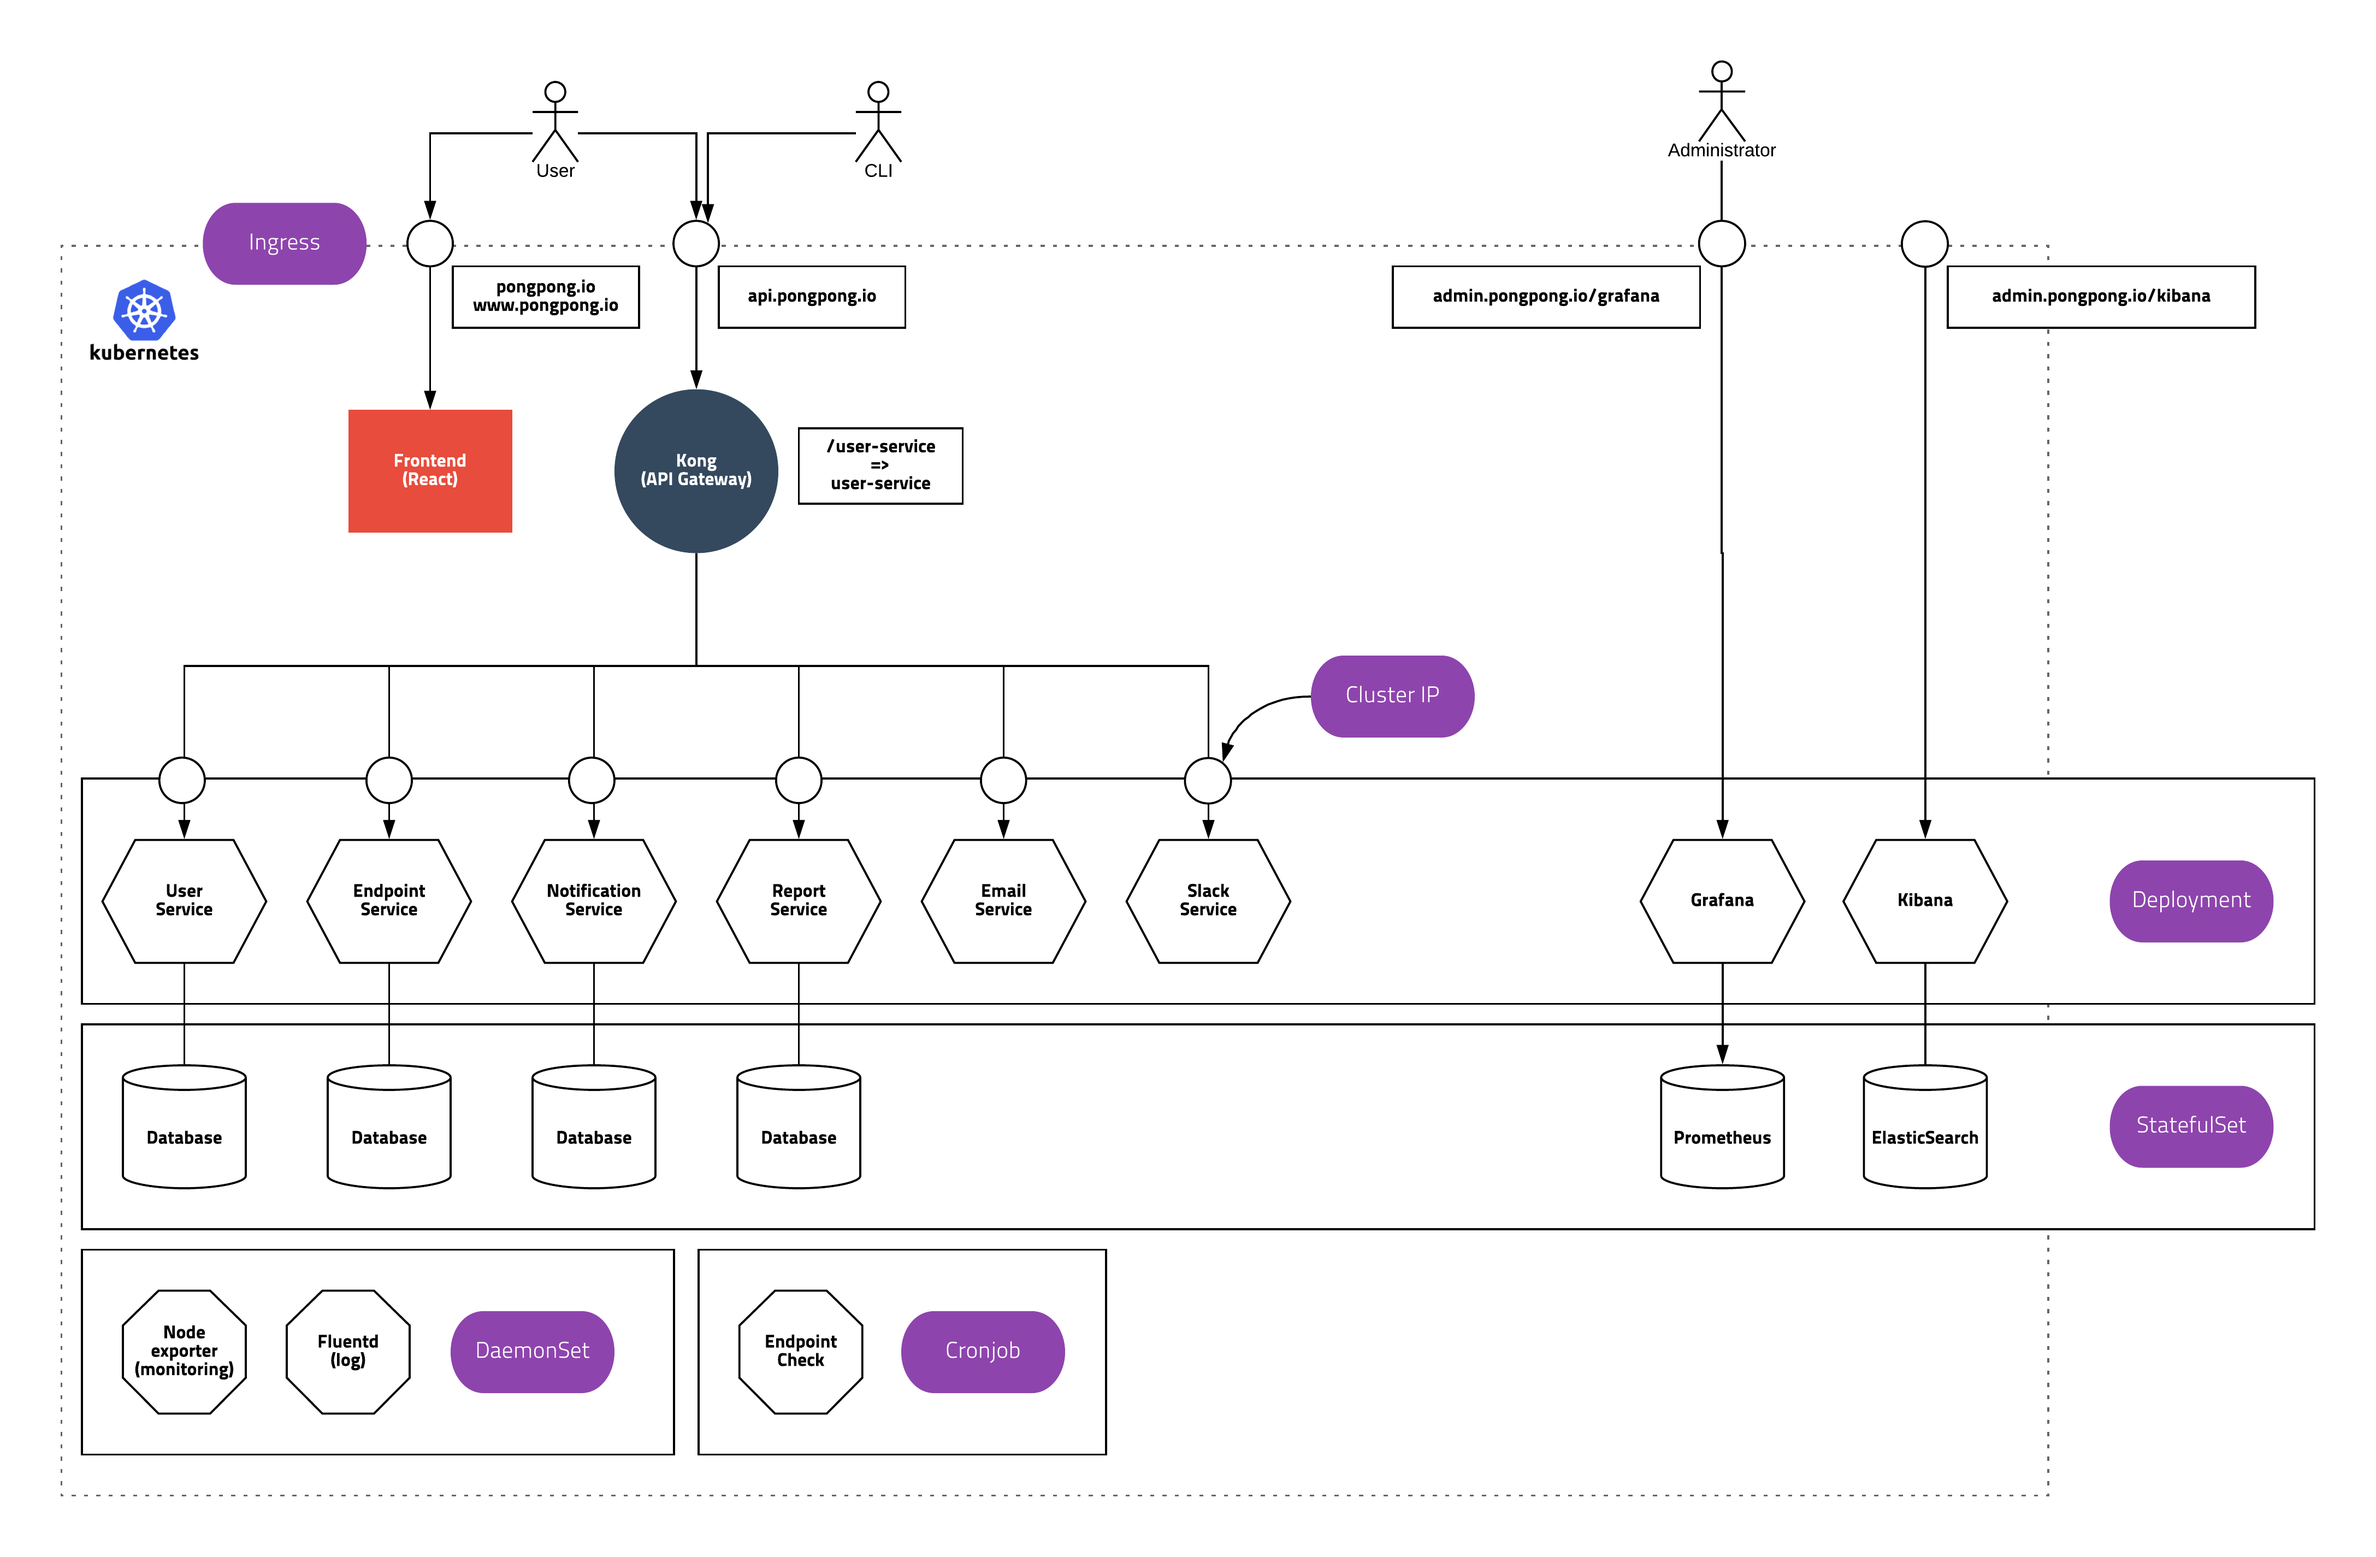
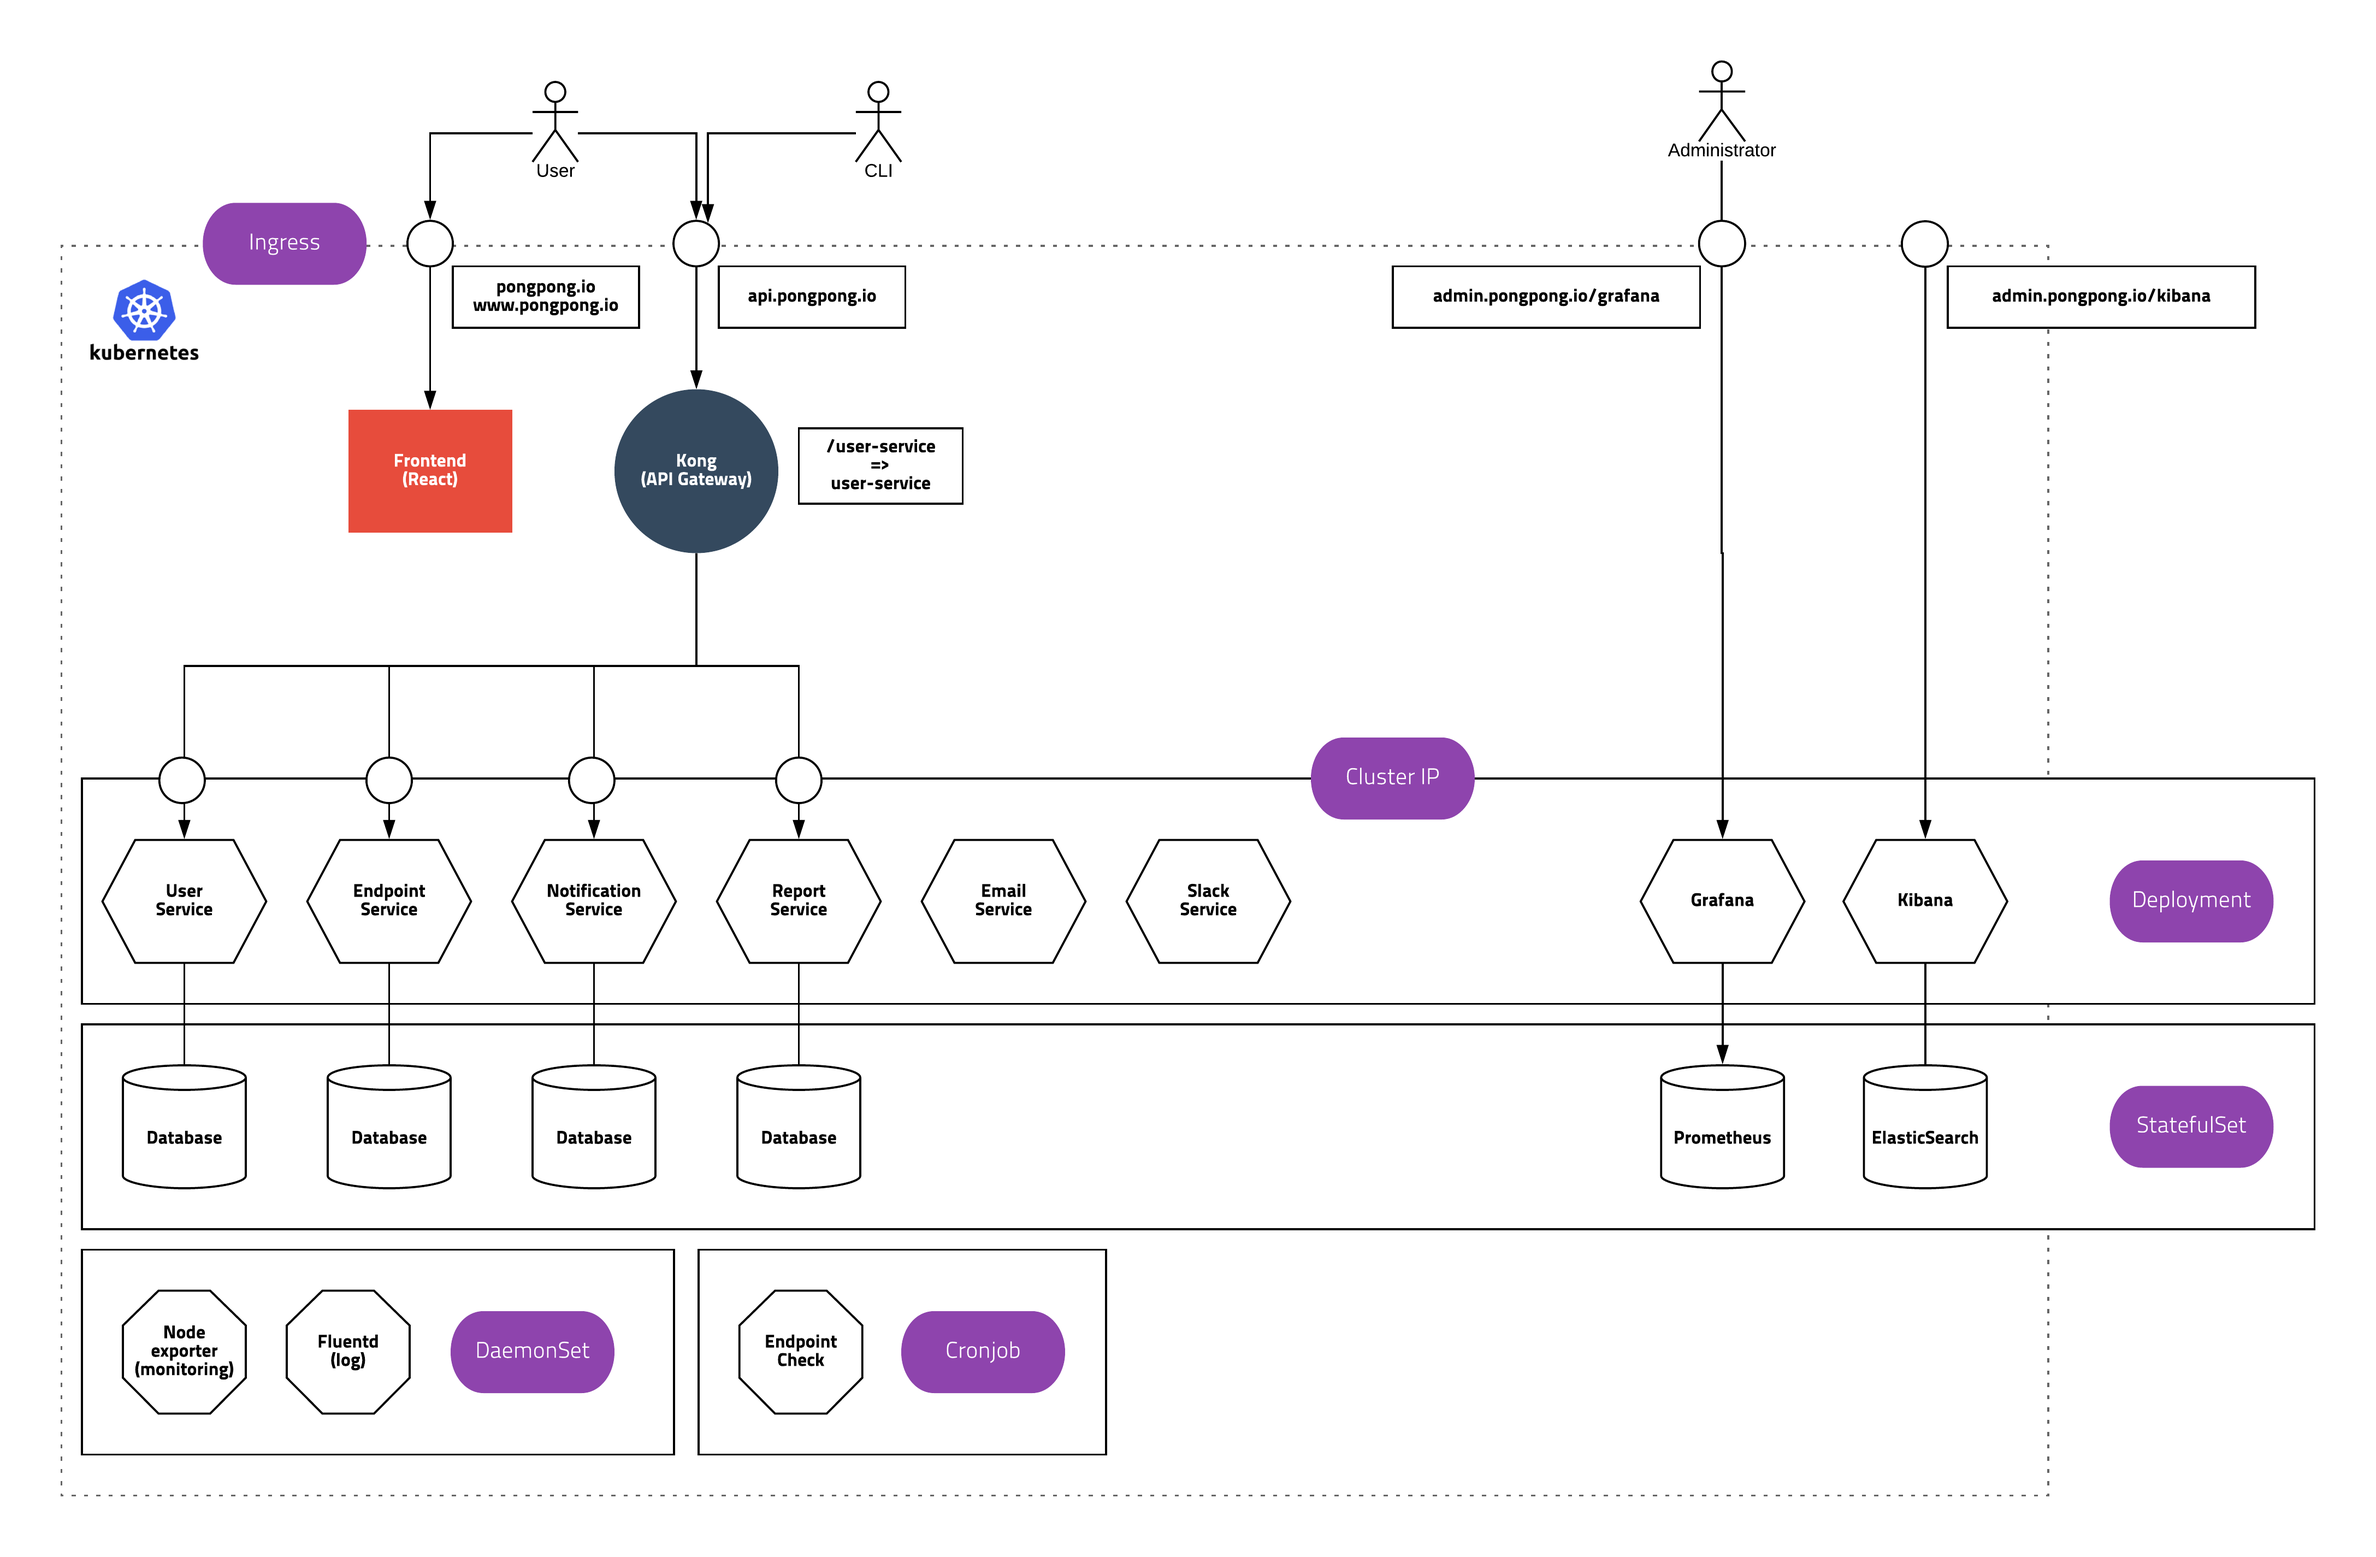
update

Changed region(s): [[0.4966, 0.406, 0.6207, 0.5309]]

diff --git a/README.md b/README.md
@@ -9,3 +9,268 @@
 pongpong(가칭)은 https://apex.sh/ping/ 클론 프로젝트 입니다. 체크 하고 싶은 웹 서비스 주소를 입력하면 주기적으로 체크하고 결과를 알려줍니다.
 
 ![pong-microservices-design](imgs/pong-microservices-design.png)
+
+### Frontend
+
+- service
+    - type - `Ingress`
+    - host - `pongpong.io`, `www.pongpong.io`
+    - path - `/`
+    - serviceName - `frontend`
+    - servicePort - `80`
+
+User가 browser로 접속해서 서비스를 사용하는 Webapp
+
+### CLI
+
+터미널에서 실행가능한 클라이언트
+
+### API Gateway
+
+- service
+    - type - `Ingress`
+    - host - `api.pongpong.io`
+    - path - `/`
+    - serviceName - `frontend`
+    - servicePort - `8000`
+
+Kong 사용. 간략한 개념은 뒷부분에서 다시 설명
+
+### User Service
+
+- service
+    - type - `ClusterIP`
+    - serviceName - `user-service`
+    - servicePort - `80`
+- kong api
+    - uris - `/user-service`
+    - upstream api - `http://user-service/api`
+- API
+    - 유저 CRUD + 로그인 / 로그아웃
+- Internal API
+    - 유저 리스트 조회 / 유저 상세 조회
+
+유저를 생성하고 정보를 수정하고 로그인 및 로그아웃 처리
+
+Kong의 consumer를 관리하고 Kong의 `key-auth` plugin을 이용하여 key를 조회함
+
+### Endpoint Service
+
+- service
+    - type - `ClusterIP`
+    - serviceName - `endpoint-service`
+    - servicePort - `80`
+- kong api
+    - uris - `/endpoint-service`
+    - upstream api - `http://endpoint-service/api`
+- API
+    - 엔드포인트 CRUD
+- Internal API
+    - 엔드포인트 리스트 조회 / 엔드포인트 상세 조회
+
+웹서비스가 살았는지 체크 하기 위한 목록을 관리
+
+ex) http://google.com
+
+### Notification Service
+
+- service
+    - type - `ClusterIP`
+    - serviceName - `notification-service`
+    - servicePort - `80`
+- kong api
+    - uris - `/notification-service`
+    - upstream api - `http://notification-service/api`
+- API
+    - 알람 설정 CRUD
+    - 알람 호출(테스트)
+- Internal API
+    - 알람 리스트 조회 / 알람 상세 조회
+    - 알람 호출
+
+웹서비스가 죽었을때 알람을 어디로 전송할지 정보를 관리
+
+현재 이메일, 슬랙 알람을 지원하며 관련 인증 정보를 관리하고 해당 서비스를 호출하는 역할을 함
+
+### email Service
+
+- service
+    - type - `ClusterIP`
+    - serviceName - `report-service`
+    - servicePort - `80`
+- kong api
+    - uris - `/report-service`
+    - upstream api - `http://report-service/api`
+- API
+    - 리포트 리스트 조회 / 리포트 상세 조회
+- Internal API
+    - 리포트 생성
+
+엔드포인트 체크가 호출한 결과를 저장
+
+리스트 조회 쿼리에 날짜를 쿼리 파라미터로 받음
+
+### Email Service
+
+- service
+    - type - `ClusterIP`
+    - serviceName - `email-service`
+    - servicePort - `80`
+- Internal API
+    - 이메일 전송
+
+받는사람, 제목, 내용을 인자로 이메일을 전송
+
+### Slack Service
+
+- service
+    - type - `ClusterIP`
+    - serviceName - `slack-service`
+    - servicePort - `80`
+- Internal API
+    - 슬랙 메시지 전송
+
+도메인, 채널, 내용, token을 인자로 슬랙 메시지 전송
+
+### log
+
+- service
+    - type - `Ingress`
+    - host - `admin.pongpong.io`
+    - path - `/kibana`
+    - serviceName - `kibana`
+    - servicePort - `80`
+- \+ agent services
+
+로깅
+
+### monitoring
+
+- service
+    - type - `Ingress`
+    - host - `admin.pongpong.io`
+    - path - `/grafana`
+    - serviceName - `grafana`
+    - servicePort - `80`
+- \+ agent services
+
+모니터링
+
+## 서비스 규칙
+
+어떤 언어/디비를 사용해도 OK
+
+다음 규칙을 준수합니다.
+- `swagger` 설정 파일 제공 (외부용 api와 내부용 api 구분)
+- 외부용 api는 `/api`로 endpoint를 설정 => Kong에서 맵핑함
+- 내부용 api는 `/`로 endpoint를 설정 => 내부에서 바로 사용
+- 기본적인 명명법은 `_ underscore` 방식 사용
+- 서비스 / 백엔드(DB) 용 kubernetes 설정 yml 파일 제공 + README.md 설명
+- github주소는 `/k8s-study/${service name}` 으로 정함
+
+REST API 설계는 다음 규칙을 준수합니다.
+
+Status Code
+- 200: 성공
+- 201: 생성 (create)
+- 204: 컨텐츠 없음 (delete)
+- 400: 잘못된 요청
+- 401: login이 필요한 경우
+- 403: login은 되어 있으나 권한이 없는 경우
+- 404: not found
+- 500: server error
+
+Response sample
+
+- 상세
+
+```
+{
+  "id": 1, 
+  "title": "title"
+}
+```
+
+- 페이징
+
+```
+{
+  "items": {
+    "id": 1,
+    "content": "content 1"
+  },
+  "page": {
+    "current_page": 1,
+    "total_count": 1,
+    "per_page": 15
+  }
+}
+```
+
+- 호출류(CRUD가 아닌 경우)
+
+```
+{
+  "status": "ok"
+}
+```
+
+```
+{
+  "status": "fail"
+}
+```
+
+- 에러
+
+```
+{
+  "message":"에러입니다.",
+  "code": "ERROR"
+}
+```
+
+```
+{
+  "message":"이메일 또는 비밀번호가 잘못되었습니다.",
+  "code": "INVALID_LOGIN"
+}
+```
+
+## Kong 기본 개념
+
+### 구성
+
+- 외부 API (:8000)
+    - user가 호출하는 API
+- 관리자 API (:8001)
+    - consumer를 만들거나 key-auth plugin을 통해 key를 가져옴
+- 관리자 대시보드 KONGA (:1337)
+    -  GUI 관리자 대시보드
+- postgresql (cassandra 지원하긴함)
+
+### API
+
+기본적으로 유저는 kong api gateway를 호출하고 kong이 다시 내부 서비스를 호출합니다.
+
+- uris - 유저가 호출하는 uri ex) `/user-service`
+- upstream url - uris 규칙으로 들어온 요청을 어디로 전달할지 설정 ex) `http://user-service/api`
+- strip uri - 유저가 `https://api.pongpong.io/user-service/users/1`를 요청하면 `/user-service`를 제거하고 upstream을 요청할때는 `https://api.pongpong.io/api/users/1`을 전달함
+
+### Consumer
+
+consumer는 user와 비슷하지만 다른 개념입니다. 
+
+내부적으로 관리하는 user id를 이용하여 consumer를 등록합니다. 웹 / iOS / Android에 따라 한 user가 여러개의 consumer를 사용할 수 있으나 여기서는 하나의 user는 하나의 consumer입니다.
+
+`subicura`라는 user를 생성하면 기본적으로 kong의 consumer를 `subicura`라는 user_id로 생성합니다. consumer는 user_id 외에 어떤 정보도 가지고 있지 않으며 단지 `key-auth` plugin을 통해 token을 관리하게 됩니다.
+
+`user service`를 통해 로그인을 성공하면 `user service`는 kong의 consumer의 key를 조회하고 응답합니다. 추후 유저는 해당 키를 모든 요청의 header에 실어서 보냅니다.
+
+### [Key Authentication](https://getkong.org/plugins/key-authentication/)
+
+Kong에 기본으로 내장되어 있는 authentication plugin 입니다.
+
+Header 또는 parameter로 `apikey` 값을 전달하면 key-auth plugin이 자동으로 해당 키를 가지고 있는 consumer를 조회 하고 upstream api를 호출할 때 `X-Consumer-Custom-ID`를 붙여서 전달합니다.
+
+마이크로서비스는 `X-Consumer-Custom-ID`가 있으면 로그인한걸로 판단하고 없으면 로그인하지 않은것으로 판단합니다.
